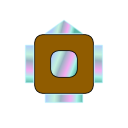
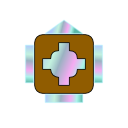
Generify expector model and view. Add multiplier cell. Update C3 levels.

Changed region(s): [[0.3125, 0.3125, 0.6875, 0.6875]]

diff --git a/core/src/com/github/alexeybond/spectrum_lost/levels/hardcoded/Chapter3.java b/core/src/com/github/alexeybond/spectrum_lost/levels/hardcoded/Chapter3.java
@@ -7,6 +7,18 @@ import static com.github.alexeybond.spectrum_lost.model.util.Direction.*;
  */
 public class Chapter3 extends Source {
     {
+        L(5,4,
+                O(0,1, "expector"),
+                O(0,2, "expector:none"),
+                O(1,2, "prism", LF),
+                O(2,2, "emitter", LF),
+                O(3,2, "mirror", LF),
+                O(3,1, "mirror", LF),
+
+                W(0,0), W(1,0), W(2,0), W(3,0), W(4,0),
+                W(0,3), W(1,3), W(2,3), W(3,3), W(4,3),
+                W(4,2), W(4,1)
+                );
         L(6,6, // C3L010
                 O(3,1, "emitter", UP),
                 O(3,2, "prism", UP),
@@ -19,15 +31,21 @@ public class Chapter3 extends Source {
                 O(1,4, "mirror", RT),
                 O(3,4, "mirror", LF),
 
-                W(4,2), W(4,4)
+                W(4,2), W(4,4),
+
+                W(0,5), W(1,5), W(2,5), W(3,5), W(4,5), W(5,5),
+                W(0,4), W(0,3), W(0,2),
+                W(1,2), W(2,2), W(2,1), W(2,0),
+                W(3,0), W(4,0), W(4,1), W(4,2),
+                W(5,1), W(5,3), W(5,4)
                 );
         L(7,7, // C3L020
-                O(0,0, "expector"),
+                O(1,0, "expector"),
                 O(0,3, "fader"),
                 O(0,2, "fader"),
                 O(0,4, "mirror", DN_RT),
                 O(1,4, "mixer", LF),
-                O(1,3, "mirror", UP_RT),
+                O(1,3, "mirror", DN_RT),
                 O(1,5, "mirror", DN_RT),
                 O(2,3, "prism", UP_LF),
                 O(3,1, "emitter", UP),
@@ -42,15 +60,16 @@ public class Chapter3 extends Source {
                 O(6,4, "mirror", DN_LF),
                 O(5,3, "mirror", DN_LF),
                 O(5,5, "mirror", DN_LF),
-                O(5,1, "mirror", UP_RT)
+                O(5,1, "mirror", UP_RT),
+
+                O(0,1, "switch", UP),
+                O(1,1, "switch", DN),
+
+                W(0,6), W(1,6), W(2,6), W(3,6), W(4,6), W(5,6), W(6,6),
+                W(0,5), W(6,5),
+                W(2,2), W(2,1), W(4,2), W(4,1),
+                W(2,0), W(3,0), W(4,0), W(5,0), W(6,0),
+                W(0,0)
                 );
-        L(5,5,
-                O(2,0, "emitter", UP),
-                O(2,1, "prism", UP),
-                O(2,2, "fader", RT),
-                O(1,2, "fader", UP_RT),
-                O(3,2, "fader", UP_LF),
-                O(2,3, "fader", RT),
-                O(2,4, "fader", RT));
     }
 }

diff --git a/core/src/com/github/alexeybond/spectrum_lost/cell_types/ExpectorCell.java b/core/src/com/github/alexeybond/spectrum_lost/cell_types/ExpectorCell.java
@@ -43,6 +43,17 @@ public class ExpectorCell implements ICellType {
         }
     }
 
+    private final int kr, kg, kb, kz;
+    private final String id;
+
+    private ExpectorCell(final String id, final int kr, final int kg, final int kb, final int kz) {
+        this.id = id;
+        this.kr = kr;
+        this.kg = kg;
+        this.kb = kb;
+        this.kz = kz;
+    }
+
     @Override
     public void init(ICell cell) {
         IExpectation expectation = cell.grid().getGameState().addExpectation();
@@ -57,12 +68,15 @@ public class ExpectorCell implements ICellType {
     }
 
     private boolean isExpectationDone(final ICell cell) {
+        int r = 0, g = 0, b = 0;
         for (int n = 0; n < Direction.NUM; n++) {
-            if (!cell.receive(Direction.get(n)).isDark())
-                return true;
+            Ray ray = cell.receive(Direction.get(n));
+            r += ray.getR();
+            g += ray.getG();
+            b += ray.getB();
         }
 
-        return false;
+        return ((r==0?0:kr) + (g==0?0:kg) + (b==0?0:kb) + kz) > 0;
     }
 
     @Override
@@ -73,7 +87,7 @@ public class ExpectorCell implements ICellType {
 
     @Override
     public String id() {
-        return "expector";
+        return id;
     }
 
     @Override
@@ -83,4 +97,7 @@ public class ExpectorCell implements ICellType {
 
         return null;
     }
+
+    public static ICellType ANY = new ExpectorCell("expector", 1, 1, 1, 0);
+    public static ICellType NONE = new ExpectorCell("expector:none", -1, -1, -1, 1);
 }

diff --git a/core/src/com/github/alexeybond/spectrum_lost/views/sprite_2d_views/ExpectorView.java b/core/src/com/github/alexeybond/spectrum_lost/views/sprite_2d_views/ExpectorView.java
@@ -17,10 +17,10 @@ public class ExpectorView extends $Sprite2DView {
     private Texture successTexture;
     private Texture waitTexture;
 
-    {
+    protected ExpectorView(final String fgImg) {
         // TODO: Do not use mirror's background
         bgTexture = loadTexture("cells/mirror/bg.png");
-        fgTexture = loadTexture("cells/expector/fg.png");
+        fgTexture = loadTexture(fgImg);
         gearTexture = loadTexture("cells/expector/fg-gear.png");
         failTexture = loadTexture("cells/expector/symbol-fail.png");
         successTexture = loadTexture("cells/expector/symbol-success.png");
@@ -54,6 +54,18 @@ public class ExpectorView extends $Sprite2DView {
 
         if (!state.expectation.isDone() && state.getCharge() != 0) {
             drawSpinner(batch, pos, state.getCharge(), size, -1);
+        }
+    }
+
+    public static class AnyExpectorView extends ExpectorView {
+        public AnyExpectorView() {
+            super("cells/expector/fg.png");
+        }
+    }
+
+    public static class NoneExpectorView extends ExpectorView {
+        public NoneExpectorView() {
+            super("cells/expector/fg-type-none.png");
         }
     }
 }

diff --git a/core/src/com/github/alexeybond/spectrum_lost/cell_types/MultiplierCell.java b/core/src/com/github/alexeybond/spectrum_lost/cell_types/MultiplierCell.java
@@ -1,0 +1,43 @@
+package com.github.alexeybond.spectrum_lost.cell_types;
+
+import com.github.alexeybond.spectrum_lost.model.interfaces.ICell;
+import com.github.alexeybond.spectrum_lost.model.interfaces.ICellType;
+import com.github.alexeybond.spectrum_lost.model.util.Direction;
+import com.github.alexeybond.spectrum_lost.model.util.Ray;
+
+/**
+ *
+ */
+public class MultiplierCell implements ICellType {
+    @Override
+    public void init(ICell cell) {
+        cell.setState(null);
+    }
+
+    @Override
+    public void leave(ICell cell) {
+        // do nothing
+    }
+
+    @Override
+    public void update(ICell cell) {
+        Direction dir = cell.direction();
+
+        Ray e = cell.emission(dir);
+
+        e.set(cell.receive(dir.reverse()));
+
+        e.mult(cell.receive(dir.perpendicular()));
+        e.mult(cell.receive(dir.perpendicular().reverse()));
+    }
+
+    @Override
+    public String id() {
+        return "multiplier";
+    }
+
+    @Override
+    public Object getAttribute(String name) {
+        return null;
+    }
+}

diff --git a/core/src/com/github/alexeybond/spectrum_lost/views/sprite_2d_views/$Sprite2DViews.java b/core/src/com/github/alexeybond/spectrum_lost/views/sprite_2d_views/$Sprite2DViews.java
@@ -14,12 +14,14 @@ public class $Sprite2DViews {
         reg("empty", new EmptyCellView());
         reg("wall", new WallView());
         reg("emitter", new EmitterView());
-        reg("expector", new ExpectorView());
+        reg("expector", new ExpectorView.AnyExpectorView());
+        reg("expector:none", new ExpectorView.NoneExpectorView());
         reg("prism", new PrismView());
         reg("mirror", new MirrorView());
         reg("mixer", new MixerView());
         reg("switch", new SwitchView());
         reg("shifter", new ShifterView());
         reg("fader", new FaderView());
+        reg("multiplier", new MultiplierView());
     }
 }

diff --git a/core/src/com/github/alexeybond/spectrum_lost/cell_types/$CellTypes.java b/core/src/com/github/alexeybond/spectrum_lost/cell_types/$CellTypes.java
@@ -16,11 +16,13 @@ public class $CellTypes {
         reg(new EmitterCell());
         reg(new PrismCell());
         reg(new MirrorCell());
-        reg(new ExpectorCell());
+        reg(ExpectorCell.ANY);
+        reg(ExpectorCell.NONE);
         reg(new WallCell());
         reg(new MixerCell());
         reg(new SwitchCell());
         reg(new ShifterCell());
         reg(new FaderCell());
+        reg(new MultiplierCell());
     }
 }

diff --git a/core/src/com/github/alexeybond/spectrum_lost/views/sprite_2d_views/MultiplierView.java b/core/src/com/github/alexeybond/spectrum_lost/views/sprite_2d_views/MultiplierView.java
@@ -1,0 +1,17 @@
+package com.github.alexeybond.spectrum_lost.views.sprite_2d_views;
+
+/**
+ *
+ */
+public class MultiplierView extends $Sprite2DView {
+    {
+        // TODO: Do not use mirror's background
+        bgTexture = loadTexture("cells/mirror/bg.png");
+        fgTexture = loadTexture("cells/multiplier/fg.png");
+    }
+
+    @Override
+    public boolean enableFlare() {
+        return true;
+    }
+}

diff --git a/core/src/com/github/alexeybond/spectrum_lost/model/util/Ray.java b/core/src/com/github/alexeybond/spectrum_lost/model/util/Ray.java
@@ -52,6 +52,13 @@ public final class Ray {
     }
 
     /**
+     * "Multiply" this ray by another one.
+     */
+    public void mult(final Ray v) {
+        set(Math.min(v.r, r), Math.min(v.g, g), Math.min(v.b, b));
+    }
+
+    /**
      * Reset all brightness components to 0.
      */
     public void clear() {
